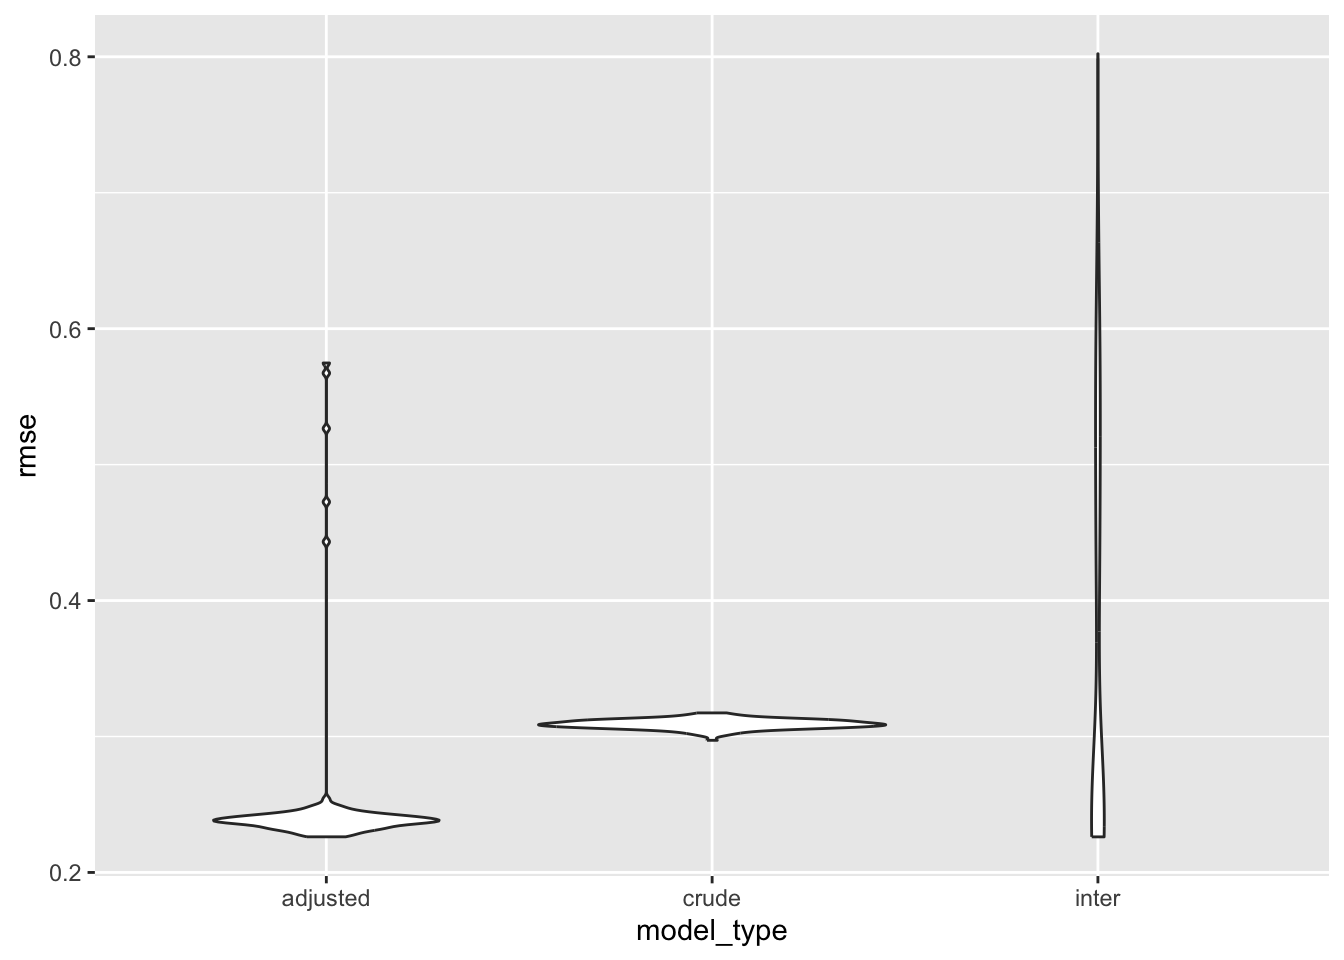
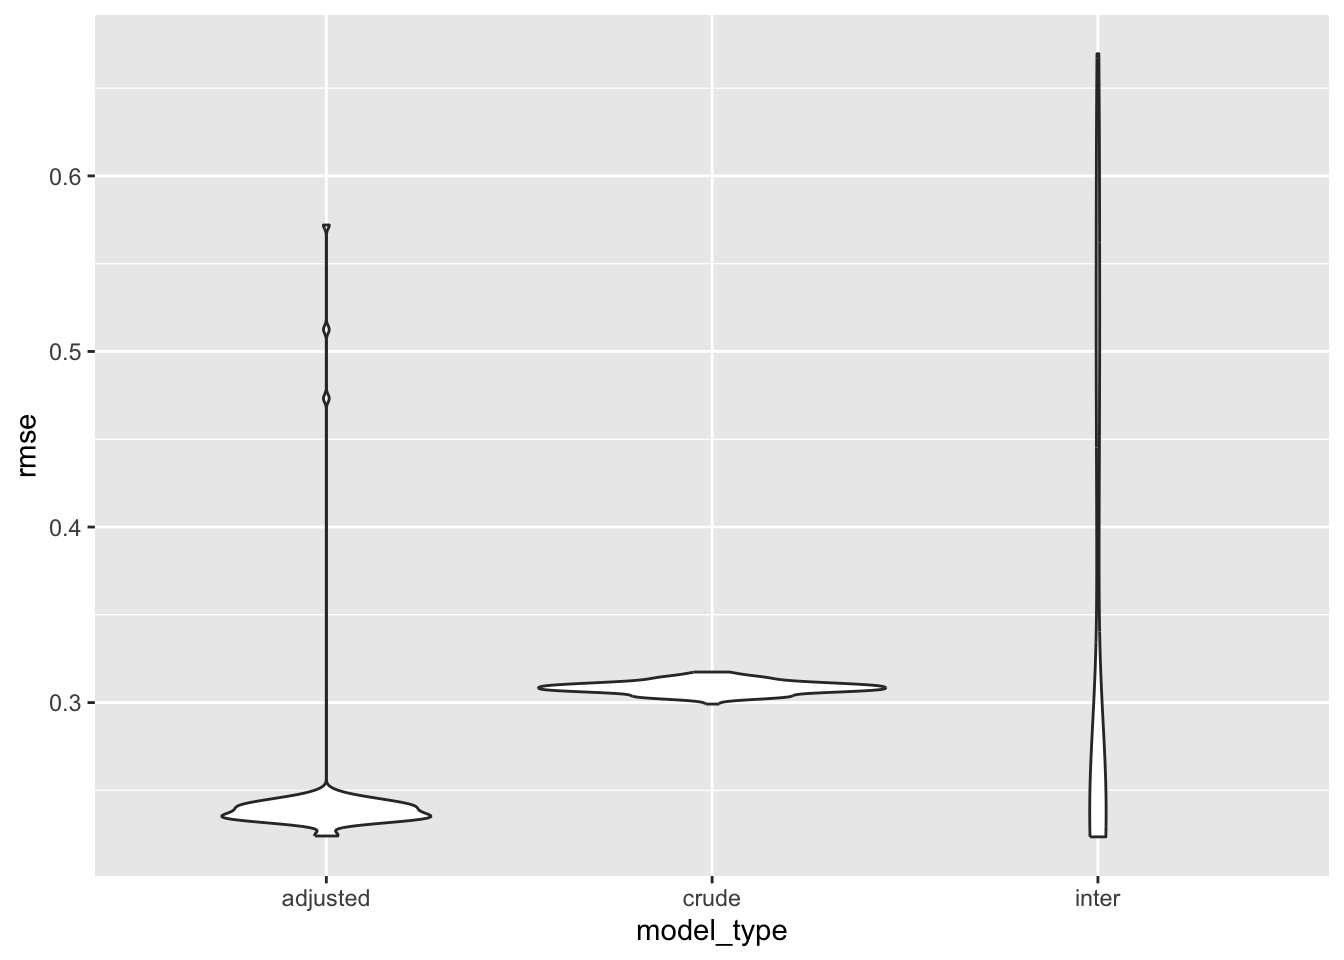
Frozen Food Consumption interpretation updated

diff --git a/p8105-Final-model-analysis.html b/p8105-Final-model-analysis.html
@@ -13,7 +13,7 @@
 
 <title>P8105 Fall 2023 Final Project Proposal</title>
 
-<script src="site_libs/header-attrs-2.25/header-attrs.js"></script>
+<script src="site_libs/header-attrs-2.24/header-attrs.js"></script>
 <script src="site_libs/jquery-3.6.0/jquery-3.6.0.min.js"></script>
 <meta name="viewport" content="width=device-width, initial-scale=1" />
 <link href="site_libs/bootstrap-3.3.5/css/cerulean.min.css" rel="stylesheet" />
@@ -433,9 +433,9 @@ class="section level1">
 <pre><code>## # A tibble: 3 × 2
 ##   model_type    m_rmse
 ##   &lt;chr&gt;          &lt;dbl&gt;
-## 1 fast_adjusted  0.306
-## 2 fast_crude     0.479
-## 3 fast_inter     0.346</code></pre>
+## 1 fast_adjusted  0.341
+## 2 fast_crude     0.522
+## 3 fast_inter     0.374</code></pre>
 <pre class="r"><code>cv_results |&gt; 
   select(starts_with(&quot;rmse&quot;)) |&gt; 
   pivot_longer(
@@ -536,9 +536,9 @@ class="section level1">
 <pre><code>## # A tibble: 3 × 2
 ##   model_type m_rmse
 ##   &lt;chr&gt;       &lt;dbl&gt;
-## 1 adjusted    0.235
+## 1 adjusted    0.234
 ## 2 crude       0.237
-## 3 inter       0.235</code></pre>
+## 3 inter       0.234</code></pre>
 <p>In the context of these models, a lower RMSE indicates a more
 accurate prediction of BMI from the predictors used in the model.</p>
 <p>The cross-validation results show that the mean RMSE for the adjusted
@@ -594,30 +594,30 @@ print(best_model_summary)</code></pre>
 ## 
 ## Residuals:
 ##      Min       1Q   Median       3Q      Max 
-## -0.73750 -0.15411 -0.00735  0.14443  1.12121 
+## -0.75471 -0.15667 -0.00535  0.14440  1.03979 
 ## 
 ## Coefficients:
 ##                                            Estimate Std. Error t value Pr(&gt;|t|)
-## (Intercept)                               3.378e+00  1.869e-02 180.716  &lt; 2e-16
-## sedentary_activity                        1.780e-04  1.896e-05   9.388  &lt; 2e-16
-## age                                       8.228e-06  2.405e-04   0.034 0.972716
-## genderMale                               -4.356e-02  7.456e-03  -5.843 5.53e-09
-## marital_statusNever married              -3.239e-02  1.057e-02  -3.064 0.002200
-## marital_statusWidowed/Divorced/Separated -3.728e-02  9.608e-03  -3.880 0.000106
-## raceMexican American                      4.187e-03  1.262e-02   0.332 0.740026
-## raceOther                                -1.678e-01  1.558e-02 -10.768  &lt; 2e-16
-## raceOther Hispanic                       -2.060e-02  1.343e-02  -1.534 0.125051
-## raceWhite                                -3.398e-02  9.305e-03  -3.652 0.000263
-## educationHigh school graduate             1.707e-02  1.185e-02   1.441 0.149756
-## educationLess than 9th grade              7.961e-03  1.585e-02   0.502 0.615517
-## educationSome college or AA degree        2.400e-02  1.169e-02   2.054 0.040087
-## income_to_poverty                        -7.619e-04  2.712e-03  -0.281 0.778775
+## (Intercept)                               3.368e+00  1.853e-02 181.755  &lt; 2e-16
+## sedentary_activity                        1.839e-04  1.881e-05   9.773  &lt; 2e-16
+## age                                       3.820e-04  2.387e-04   1.600 0.109569
+## genderMale                               -5.086e-02  7.400e-03  -6.874 7.22e-12
+## marital_statusNever married              -1.439e-02  1.049e-02  -1.371 0.170348
+## marital_statusWidowed/Divorced/Separated -3.291e-02  9.534e-03  -3.451 0.000564
+## raceMexican American                      1.220e-02  1.257e-02   0.970 0.331955
+## raceOther                                -1.748e-01  1.543e-02 -11.330  &lt; 2e-16
+## raceOther Hispanic                       -1.576e-02  1.327e-02  -1.188 0.234974
+## raceWhite                                -3.524e-02  9.232e-03  -3.817 0.000137
+## educationHigh school graduate             6.855e-03  1.182e-02   0.580 0.561950
+## educationLess than 9th grade             -5.894e-03  1.595e-02  -0.369 0.711782
+## educationSome college or AA degree        8.946e-03  1.170e-02   0.765 0.444370
+## income_to_poverty                        -9.093e-04  2.701e-03  -0.337 0.736375
 ##                                             
 ## (Intercept)                              ***
 ## sedentary_activity                       ***
 ## age                                         
 ## genderMale                               ***
-## marital_statusNever married              ** 
+## marital_statusNever married                 
 ## marital_statusWidowed/Divorced/Separated ***
 ## raceMexican American                        
 ## raceOther                                ***
@@ -625,15 +625,15 @@ print(best_model_summary)</code></pre>
 ## raceWhite                                ***
 ## educationHigh school graduate               
 ## educationLess than 9th grade                
-## educationSome college or AA degree       *  
+## educationSome college or AA degree          
 ## income_to_poverty                           
 ## ---
 ## Signif. codes:  0 &#39;***&#39; 0.001 &#39;**&#39; 0.01 &#39;*&#39; 0.05 &#39;.&#39; 0.1 &#39; &#39; 1
 ## 
-## Residual standard error: 0.2343 on 4068 degrees of freedom
-##   (5028 observations deleted due to missingness)
-## Multiple R-squared:  0.0617, Adjusted R-squared:  0.0587 
-## F-statistic: 20.58 on 13 and 4068 DF,  p-value: &lt; 2.2e-16</code></pre>
+## Residual standard error: 0.2319 on 4043 degrees of freedom
+##   (5053 observations deleted due to missingness)
+## Multiple R-squared:  0.06772,    Adjusted R-squared:  0.06472 
+## F-statistic: 22.59 on 13 and 4043 DF,  p-value: &lt; 2.2e-16</code></pre>
 <pre class="r"><code># Plotting the &#39;adjusted&#39; model&#39;s fitted values vs. residuals
 best_model &lt;- cv_results_sedentary$model_sed_adjusted[[1]]
 best_model_residuals &lt;- resid(best_model)
@@ -755,9 +755,18 @@ class="section level1">
 <pre><code>## # A tibble: 3 × 2
 ##   model_type m_rmse
 ##   &lt;chr&gt;       &lt;dbl&gt;
-## 1 adjusted    0.252
+## 1 adjusted    0.246
 ## 2 crude       0.309
-## 3 inter       0.359</code></pre>
+## 3 inter       0.331</code></pre>
+<p>According to the violin plot of the RMSE distribution for each model,
+the adjusted model consistently shows a concentrated distribution of
+lower RMSE values, meaning it has a superior predictive performance
+relative to the crude and interaction models. This observation is
+confirmed by the summary of cross-validation results, which indicates
+that the adjusted model has the lowest mean RMSE of 0.243, compared to
+0.309 for the crude model and 0.336 for the interaction model. Since
+lower values mean better model performance, the adjusted model has the
+best model performance among these three models.</p>
 </div>
 <div id="model-plot-for-adjusted-model" class="section level1">
 <h1>Model Plot for Adjusted Model</h1>
@@ -812,8 +821,11 @@ ggplot(new_data_frozen, aes(x = freq_frozen, y = log_bmi_pred)) +
        x = &quot;Frozen Fast Food Frequency&quot;,
        y = &quot;Predicted Log BMI&quot;) +
   theme_minimal()</code></pre>
-<p><img src="p8105-Final-model-analysis_files/figure-html/unnamed-chunk-8-1.png" width="672" />
-# Summary of the best ‘adjusted’ model from cross-validation</p>
+<p><img src="p8105-Final-model-analysis_files/figure-html/unnamed-chunk-8-1.png" width="672" /></p>
+</div>
+<div id="summary-of-the-best-adjusted-model-from-cross-validation"
+class="section level1">
+<h1>Summary of the best ‘adjusted’ model from cross-validation</h1>
 <pre class="r"><code>best_adjusted_model_summary &lt;- cv_results_frozen$model_frozen_adjusted[[1]] %&gt;% summary()
 
 # Print the summary which includes coefficients, R-squared, p-values...
@@ -825,46 +837,58 @@ print(best_adjusted_model_summary)</code></pre>
 ## 
 ## Residuals:
 ##      Min       1Q   Median       3Q      Max 
-## -0.77451 -0.15727 -0.01138  0.15113  1.08798 
+## -0.77474 -0.15840 -0.00797  0.14524  1.07106 
 ## 
 ## Coefficients:
 ##                                            Estimate Std. Error t value Pr(&gt;|t|)
-## (Intercept)                               3.413e+00  1.855e-02 183.970  &lt; 2e-16
-## freq_frozen                              -5.155e-06  2.547e-05  -0.202 0.839634
-## age                                       3.098e-04  2.483e-04   1.248 0.212219
-## genderMale                               -4.675e-02  7.620e-03  -6.135 9.35e-10
-## marital_statusNever married              -1.768e-02  1.075e-02  -1.645 0.100024
-## marital_statusWidowed/Divorced/Separated -2.525e-02  9.799e-03  -2.577 0.009993
-## raceMexican American                     -1.677e-02  1.303e-02  -1.287 0.198210
-## raceOther                                -1.812e-01  1.559e-02 -11.627  &lt; 2e-16
-## raceOther Hispanic                       -3.166e-02  1.357e-02  -2.333 0.019673
-## raceWhite                                -3.270e-02  9.523e-03  -3.434 0.000601
-## educationHigh school graduate             1.625e-02  1.209e-02   1.344 0.178985
-## educationLess than 9th grade              1.666e-02  1.648e-02   1.011 0.312140
-## educationSome college or AA degree        3.068e-02  1.193e-02   2.571 0.010168
-## income_to_poverty                         2.389e-03  2.765e-03   0.864 0.387631
+## (Intercept)                               3.413e+00  1.824e-02 187.105  &lt; 2e-16
+## freq_frozen                              -3.975e-06  2.493e-05  -0.159  0.87331
+## age                                       2.205e-04  2.425e-04   0.909  0.36332
+## genderMale                               -4.398e-02  7.465e-03  -5.891 4.15e-09
+## marital_statusNever married              -1.868e-02  1.051e-02  -1.777  0.07571
+## marital_statusWidowed/Divorced/Separated -2.542e-02  9.608e-03  -2.645  0.00819
+## raceMexican American                     -1.354e-03  1.266e-02  -0.107  0.91486
+## raceOther                                -1.735e-01  1.522e-02 -11.396  &lt; 2e-16
+## raceOther Hispanic                       -2.267e-02  1.327e-02  -1.708  0.08763
+## raceWhite                                -2.370e-02  9.344e-03  -2.536  0.01124
+## educationHigh school graduate             1.598e-02  1.186e-02   1.348  0.17781
+## educationLess than 9th grade             -1.444e-03  1.611e-02  -0.090  0.92859
+## educationSome college or AA degree        2.258e-02  1.173e-02   1.925  0.05430
+## income_to_poverty                         1.938e-03  2.715e-03   0.714  0.47531
 ##                                             
 ## (Intercept)                              ***
 ## freq_frozen                                 
 ## age                                         
 ## genderMale                               ***
-## marital_statusNever married                 
+## marital_statusNever married              .  
 ## marital_statusWidowed/Divorced/Separated ** 
 ## raceMexican American                        
 ## raceOther                                ***
-## raceOther Hispanic                       *  
-## raceWhite                                ***
+## raceOther Hispanic                       .  
+## raceWhite                                *  
 ## educationHigh school graduate               
 ## educationLess than 9th grade                
-## educationSome college or AA degree       *  
+## educationSome college or AA degree       .  
 ## income_to_poverty                           
 ## ---
 ## Signif. codes:  0 &#39;***&#39; 0.001 &#39;**&#39; 0.01 &#39;*&#39; 0.05 &#39;.&#39; 0.1 &#39; &#39; 1
 ## 
-## Residual standard error: 0.2398 on 4061 degrees of freedom
-##   (5035 observations deleted due to missingness)
-## Multiple R-squared:  0.04368,    Adjusted R-squared:  0.04062 
-## F-statistic: 14.27 on 13 and 4061 DF,  p-value: &lt; 2.2e-16</code></pre>
+## Residual standard error: 0.2347 on 4062 degrees of freedom
+##   (5034 observations deleted due to missingness)
+## Multiple R-squared:  0.04245,    Adjusted R-squared:  0.03939 
+## F-statistic: 13.85 on 13 and 4062 DF,  p-value: &lt; 2.2e-16</code></pre>
+<p>The best-fitting model, based on the cross-validation results, is the
+adjusted model. Thus, a detailed examination was conducted, and its
+summary statistics indicate that: The Intercept is estimated at 3.409 on
+the log scale. The coefficient for frozen fast food frequency is
+-4.291e-06 with a p-value of 0.86427, this suggests that the number of
+frozen fast food meals consumed does not have a statistically
+significant effect on BMI in this model. Other covariates, such as
+gender and race show significant associations with BMI, with gender
+(Male) and race (Other) showing a strong negative association with BMI.
+The R-squared value of 0.03455 indicates that approximately 3.455% of
+the variability in the log-transformed BMI is explained by the
+model.</p>
 </div>
 <div id="create-a-residuals-plot-for-the-adjusted-model"
 class="section level1">
@@ -887,6 +911,27 @@ residual_plot &lt;- ggplot() +
 print(residual_plot)</code></pre>
 <pre><code>## `geom_smooth()` using formula = &#39;y ~ x&#39;</code></pre>
 <p><img src="p8105-Final-model-analysis_files/figure-html/unnamed-chunk-10-1.png" width="672" /></p>
+<p>The residuals plot against fitted values provides insight into the
+adequacy of the model fit. The presence of a random scatter of residuals
+around the horizontal line at zero suggests no obvious issues with
+non-linearity or heteroscedasticity. However, the slight curvature in
+the LOESS line and the increasing spread of residuals at higher fitted
+values could imply potential model misspecification or the need for a
+variable transformation to address heteroscedasticity.</p>
+<div id="conclusion-of-frozen-food-consumption-on-bmi"
+class="section level2">
+<h2>Conclusion of frozen food consumption on BMI</h2>
+<p>Overall, our analysis suggests that while frozen fast food
+consumption frequency does not significantly predict BMI, other factors
+such as gender and race do have significant associations. The small
+R-squared value implies that other unmeasured factors also play a role
+in influencing BMI, which are not captured by this model.</p>
+<p>The relatively stable variance in residuals suggests that the linear
+model is a reasonable fit for the data, although there is room for
+improvement. Future modeling efforts might explore the inclusion of
+non-linear terms, additional interaction terms, or other predictor
+variables to enhance the model’s explanatory power.</p>
+</div>
 </div>
 <div id="regression-models-and-diagnostics" class="section level1">
 <h1>Regression Models and Diagnostics</h1>

diff --git a/site_libs/header-attrs-2.24/header-attrs.js b/site_libs/header-attrs-2.24/header-attrs.js
@@ -1,0 +1,12 @@
+// Pandoc 2.9 adds attributes on both header and div. We remove the former (to
+// be compatible with the behavior of Pandoc < 2.8).
+document.addEventListener('DOMContentLoaded', function(e) {
+  var hs = document.querySelectorAll("div.section[class*='level'] > :first-child");
+  var i, h, a;
+  for (i = 0; i < hs.length; i++) {
+    h = hs[i];
+    if (!/^h[1-6]$/i.test(h.tagName)) continue;  // it should be a header h1-h6
+    a = h.attributes;
+    while (a.length > 0) h.removeAttribute(a[0].name);
+  }
+});
